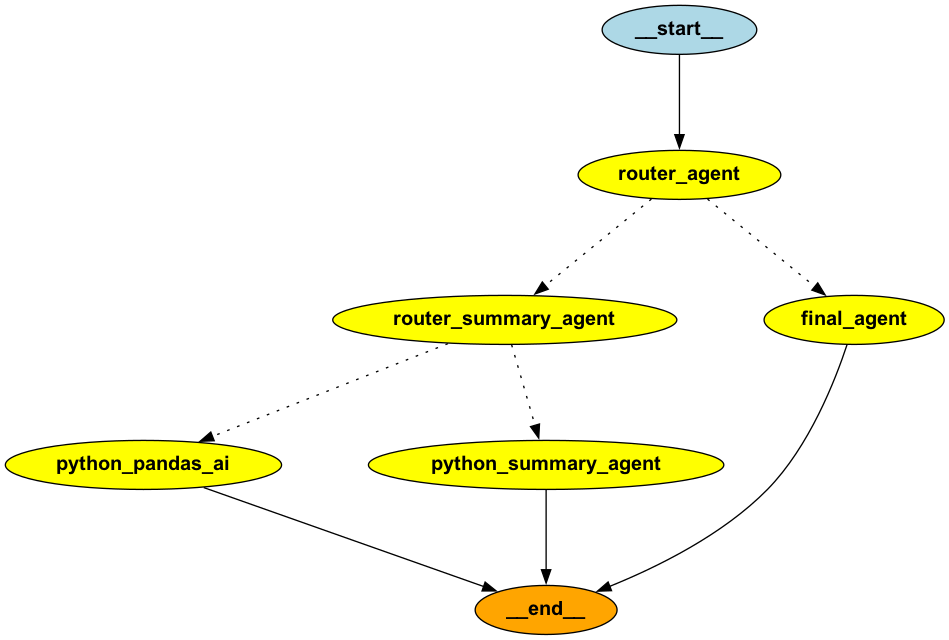
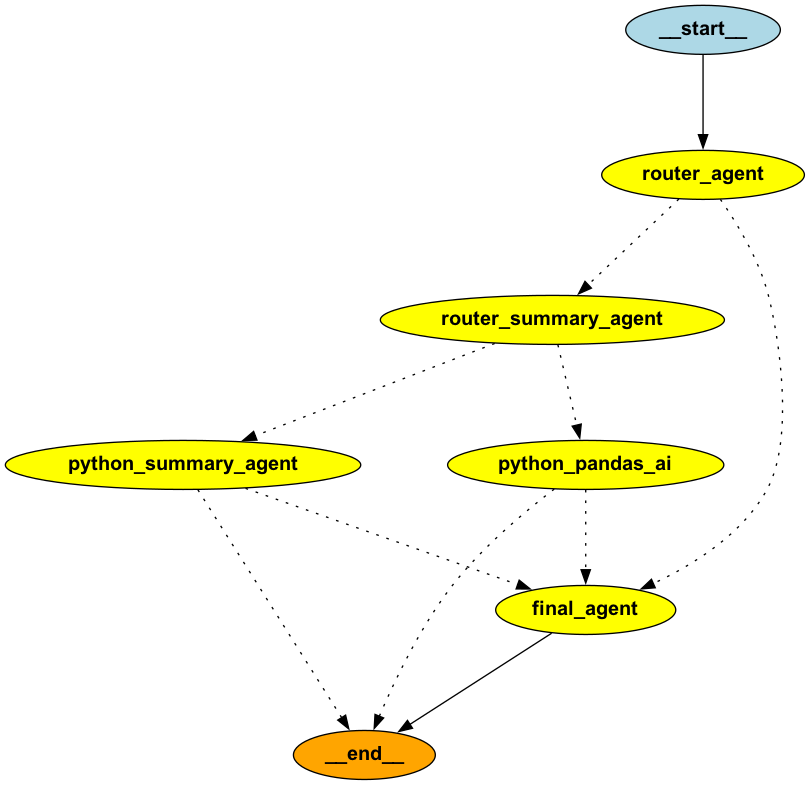
enhance pandasai summary

diff --git a/version2/version_temp/lang_graph/lang_graph_utils.py b/version2/version_temp/lang_graph/lang_graph_utils.py
@@ -18,21 +18,23 @@ def router_agent(state: list):
     print(graph_stage_prefix, 'Router agent')
     df = state['df']
     query = state['input']
-    llm = Agent_Ai(model = 'llama3', df=df)
+    llm = Agent_Ai(model = 'llama3.1', df=df)
     out = llm.prompt_agent(query=query)
     print('ROUTER AGENT OUT: ', out)
     return {"agent_out": out}
 
 def router_agent_decision(state: list):
     router_out = state['agent_out']
-    if 'yes' in router_out.lower():
-        return 'router_summary_agent'
+    router_out = router_out.lower()
+    out = router_out[router_out.rfind("answer")+5:]
+    if 'yes' in out.lower():
+        return 'router_summary_agent'#"python_pandas_ai"
     else:
         return 'final_agent'
 
 def router_summary_agent(state: list):
     print(graph_stage_prefix, 'Router summary agent')
-    llm = Agent_Ai(model='llama3.1')
+    llm = Agent_Ai(model='llama3')
     query = state['input']
     query_summary = f"""
     You are suppose to determine if the <Question> is explicitly asking for a summary. When determining whether a question is asking for a summary, focus on whether the question is requesting a high-level overview of the data (summary), or if it’s asking for a specific value, action, or detail (non-summary) Always think before answering.
@@ -42,7 +44,8 @@ def router_summary_agent(state: list):
     <Answer> should always be a Yes or No only
     """
     out = llm.query_agent(query=query_summary)
-    ans = out[out.rfind('<Answer>')+ 9:]
+    out = out.lower()
+    ans = out[out.rfind('answer')+ 5:]
     print('SUMMARY AGENT OUT: ', ans)
     return {"agent_out": ans}
 
@@ -84,32 +87,41 @@ def python_pandas_ai(state:list):
 def python_summary_agent(state: list):
     print(graph_stage_prefix, 'Summary agent')
     df = state['df']
-    llm = Python_Ai(model = 'mistral', df=df)
-    out = llm.get_summary()
+    # llm = Python_Ai(model = 'mistral', df=df)
+    # out = llm.get_summary()
     query = state['input']
-    prompt = f"""
-    The following is the query from the user:
-    {query}
+    # prompt = f"""
+    # The following is the query from the user:
+    # {query}
 
-    The following is a list of Python dictionaries, where each dictionary has a 'path' value which is a html summary report:
-    {out}
+    # The following is a list of Python dictionaries, where each dictionary has a 'path' value which is a html summary report:
+    # {out}
 
-    You are to respond with a code output that answers the user query. The code must not be a function and must NOT have a return statement.
+    # You are to respond with a code output that answers the user query. The code must not be a function and must NOT have a return statement.
 
-    You are to following the instructions below strictly:
-    - dfs: list[pd.DataFrame] is already provided.
-    - Parse through the html summary report for each Python dictionary above, print the Python dictionary/dictionaries whose html summary report answers the user query.
-    """
+    # You are to following the instructions below strictly:
     # - dfs: list[pd.DataFrame] is already provided.
-    # - summarise_df(df: pd.DataFrame) function is already provided. You MUST use this function.
-    # - For each dataframe that the user wants to summarise, use the summarise_df(df: pd.DataFrame) function provided to summarise the dataframe as such: summarise_df(df), where df 
-    # is the pd.DataFrame to be summarised
-    # - Print the summary results for each dataframe the user wants to summarise.
-    # - Import all required dependencies in the function.
-    # - Generate a random id for each dataframe to differentiate them.
-    out = llm.pandas_legend().chat(prompt)
+    # - Parse through the html summary report for each Python dictionary above, print the Python dictionary/dictionaries whose html summary report answers the user query.
+    # """
+    # # - dfs: list[pd.DataFrame] is already provided.
+    # # - summarise_df(df: pd.DataFrame) function is already provided. You MUST use this function.
+    # # - For each dataframe that the user wants to summarise, use the summarise_df(df: pd.DataFrame) function provided to summarise the dataframe as such: summarise_df(df), where df 
+    # # is the pd.DataFrame to be summarised
+    # # - Print the summary results for each dataframe the user wants to summarise.
+    # # - Import all required dependencies in the function.
+    # # - Generate a random id for each dataframe to differentiate them.
+    llm = Python_Ai(model = "llama3.1", df = df)
+    pandasai_llm  = llm.pandas_legend_with_summary_skill()
+    out = pandasai_llm.chat(query) #state['pandas'].chat(prompt)
     print('PYTHON SUMMARY OUT: ', out)
     return {"agent_out": out}
+
+def router_python_output(state:list):
+    router_out = state["agent_out"]
+    if "Unfortunately, I was not able to answer your question, because of the following error:" in router_out:
+        return "final_agent"
+    else:
+        return "__end__"
     
 def final_agent(state:list):
     print(graph_stage_prefix, "Final agent")

diff --git a/version2/version_temp/python_agent/python_ai.py b/version2/version_temp/python_agent/python_ai.py
@@ -6,21 +6,58 @@ from pandasai.responses.streamlit_response import StreamlitResponse
 from pandasai.skills import skill
 import tempfile
 import pandas as pd
+from langchain_core.tools import tool
+from pandasai.llm import LLM
+from langchain_core.language_models import BaseLanguageModel
+from langchain_core.language_models.chat_models import BaseChatModel
+from pandasai.prompts.base import BasePrompt
+from pandasai.responses import StreamlitResponse
+from pandasai.pipelines.pipeline_context import PipelineContext
+class LangchainLLM(LLM):
+    """
+    Class to wrap Langchain LLMs and make PandasAI interoperable
+    with LangChain.
+    """
+
+    langchain_llm: BaseLanguageModel
+
+    def __init__(self, langchain_llm: BaseLanguageModel):
+        self.langchain_llm = langchain_llm
+
+    def call(
+        self, instruction: BasePrompt, context: PipelineContext = None, suffix: str = ""
+    ) -> str:
+        prompt = instruction.to_string() + suffix
+        memory = context.memory if context else None
+        prompt = self.prepend_system_prompt(prompt, memory)
+        self.last_prompt = prompt
+        
+        res = self.langchain_llm.invoke(prompt)
+        print("mm", prompt, 'mm.')
+        print('m', res, '.')
+        return res.content if isinstance(self.langchain_llm, BaseChatModel) else res
+
+    @property
+    def type(self) -> str:
+        return f"langchain_{self.langchain_llm._llm_type}"
+
+
 
 @skill
-def summarise_df(df: pd.DataFrame):
+def summary_skill(df):
     """
-    Use 'sweetviz' module to get a summary of the selected dataframe 'df'
+    Use this for any question regarding an Overall Summary
+    The output type will be a string
     Args:
-        df (pd.DataFrame): Pandas dataframe to be summarised using 'sweetviz'
+        df (pd.DataFrame): A pandas dataframe 
     """
     import sweetviz as sv
     with tempfile.NamedTemporaryFile(suffix='.html', delete=False) as f:
         tempfile_path = f.name
         report = sv.analyze(df)
         report.show_html(filepath=tempfile_path, layout='vertical', scale=0.65, open_browser=False)
-        
-    return {'type': 'Python_AI_Summary' , 'path': tempfile_path}
+    result = {'type': 'Python_AI_Summary' , 'path': {tempfile_path}}
+    return tempfile_path
 
 class Python_Ai:
     def __init__(self, model = "codellama:7b", df=None, temperature=0.1):
@@ -53,7 +90,26 @@ class Python_Ai:
                 "custom_whitelisted_dependencies": ["sweetviz"]
             }
         )
-        # pandas_ai.add_skills(summarise_df)
+        #pandas_ai.add_skills(summarise_df)
+        return pandas_ai
+    
+    def pandas_legend_with_summary_skill(self):
+        llm  = LangchainLLM(self.get_llm().llm)
+
+        pandas_ai = Agent(
+            self.df, 
+
+            config={
+                "llm":llm,
+                "open_charts":False,
+                "enable_cache" : False,
+                "save_charts": True,
+                "max_retries":3,
+                "response_parser": StreamlitResponse,
+                "custom_whitelisted_dependencies": ["sweetviz"]
+            }
+        )
+        pandas_ai.add_skills(summary_skill)
         return pandas_ai
     
     def dataframe_selector(self):

diff --git a/version2/version_temp/lang_graph/lang_graph.py b/version2/version_temp/lang_graph/lang_graph.py
@@ -7,7 +7,7 @@ import os, sys
 sys.path.insert(1, "/".join(os.path.realpath(__file__).split("/")[0:-2]))
 from python_agent.python_ai import Python_Ai
 from regular_agent.agent_ai import Agent_Ai
-from lang_graph.lang_graph_utils import python_pandas_ai, final_agent, router_agent, router_agent_decision, router_summary_agent, router_summary_agent_decision, python_summary_agent
+from lang_graph.lang_graph_utils import python_pandas_ai, final_agent, router_agent, router_agent_decision, router_summary_agent, router_summary_agent_decision, router_python_output, python_summary_agent
 
 class AgentState(TypedDict):
     input: str
@@ -35,6 +35,7 @@ class Graph:
             router_agent_decision,
             {
                 "router_summary_agent":"router_summary_agent",
+                # "python_pandas_ai":"python_pandas_ai",
                 "final_agent":"final_agent"
             }
         )
@@ -46,10 +47,28 @@ class Graph:
                 "python_pandas_ai":"python_pandas_ai"
             }
         )
+        
+        graph.add_conditional_edges(
+            "python_pandas_ai",
+            router_python_output,
+            {
+                "final_agent":"final_agent",
+                "__end__":"__end__"
+            }
+        )
+        
+        graph.add_conditional_edges(
+            "python_summary_agent",
+            router_python_output,
+            {
+                "final_agent":"final_agent",
+                "__end__":"__end__"
+            }
+        )
         graph.add_edge("python_pandas_ai", END)
         
         # graph.add_edge(START, "python_summary_agent")
-        graph.add_edge("python_summary_agent", END)
+        # graph.add_edge("python_summary_agent", END)
         graph.add_edge("final_agent", END)
         runnable = graph.compile()
         return runnable
@@ -85,8 +104,8 @@ class Graph:
         png_data = runnable.get_graph().draw_png()
         image = PILImage.open(io.BytesIO(png_data))
         os.makedirs("./image", exist_ok=True)
-        image.save("./image/lang_chain_graph_pandas.png")
-        return "./image/lang_chain_graph_pandas.png"
+        image.save("./image/lang_chain_graph_pandas_new.png")
+        return "./image/lang_chain_graph_pandas_new.png"
     
 if __name__ == "__main__":
     df = pd.read_csv('../../../data/Mac_2k.log_structured.csv')

diff --git a/version2/version_temp/regular_agent/agent_prompt.py b/version2/version_temp/regular_agent/agent_prompt.py
@@ -2,7 +2,7 @@ from langchain_core.prompts import PromptTemplate
 
 PREFIX = """
     You are working with one or more pandas dataframe(s) in Python.
-    The following shows the first 5 rows of each of the dataframe(s):
+    The following shows the first 3 rows of each of the dataframe(s):
 
     """
 SUFFIX = """
@@ -13,9 +13,26 @@ SUFFIX = """
     In particular, can the user question be answered by using Python code to manipulate the dataframe(s)?
 
     Important:
-    - Answer with a *yes* or a *no* only.
-    - DO NOT supplement your answer with anything else.
     - If the question is unrelated to Python data manipulation (like greetings or general questions), answer with a *no*
+    Can this be answered by using Python code to manipulate the dataframe?
+    
+    Answer Should be formatted 
+    <Thought> ...
+    <Answer> yes or no only.
+
+    """
+PREFIX_1 = ""
+SUFFIX_1 =  """
+    Your task is to determine if the <USER INPUT> is related to manipulating the dataframe(s) using Python.
+    If the user question be answered by using Python code to manipulate the dataframe(s)?
+    If the question is unrelated to Python data manipulation (like greetings or general questions or if it is not clear), answer with a no.
+    
+    Here is the question from the user:
+    <USER INPUT> {input}
+    Important:
+    Answer Should be formatted 
+    <Thought> ...
+    <Answer> yes or no only.
     """
 class Agent_Prompt:
     def __init__(self, df):

diff --git a/version2/app.py b/version2/app.py
@@ -420,6 +420,17 @@ def output(message):
             else:
                 st.write(message['content'])
                 return
+        elif str(message['content']).endswith(".html"):
+            st.write("### Here is a summary of the data!")
+            print("[APP]", message['content'])
+            if os.path.exists(message['content']):
+                    # Read the file and render it in an iframe
+                    with open(message['content'], 'r', encoding='utf-8') as f:
+                        html_content = f.read()
+                    # Display the HTML report in Streamlit
+                    components.html(html_content, height=800, scrolling=True)
+              
+                    return
                 
         elif "exports/charts/" in str(message['content']):
             img_base64 = img_to_base64(message['content'])
@@ -435,6 +446,7 @@ def output(message):
                 st.write(f"I'm so sorry. But I am unable to show you the plotted graph.")
         else:
             st.write(message["content"])   
+        return
 
 async def on_chat_submit(chat_input):
     """
@@ -517,7 +529,7 @@ def update_langgraph():
         df_list.append(df)
 
     llm = Python_Ai(df = df_list)
-    pandas_llm = llm.pandas_legend()
+    pandas_llm = llm.pandas_legend_with_summary_skill()
     graph = Graph(pandas_llm=pandas_llm, df=df_list)
     st.session_state.graph = graph
     print("langgraph updated")
